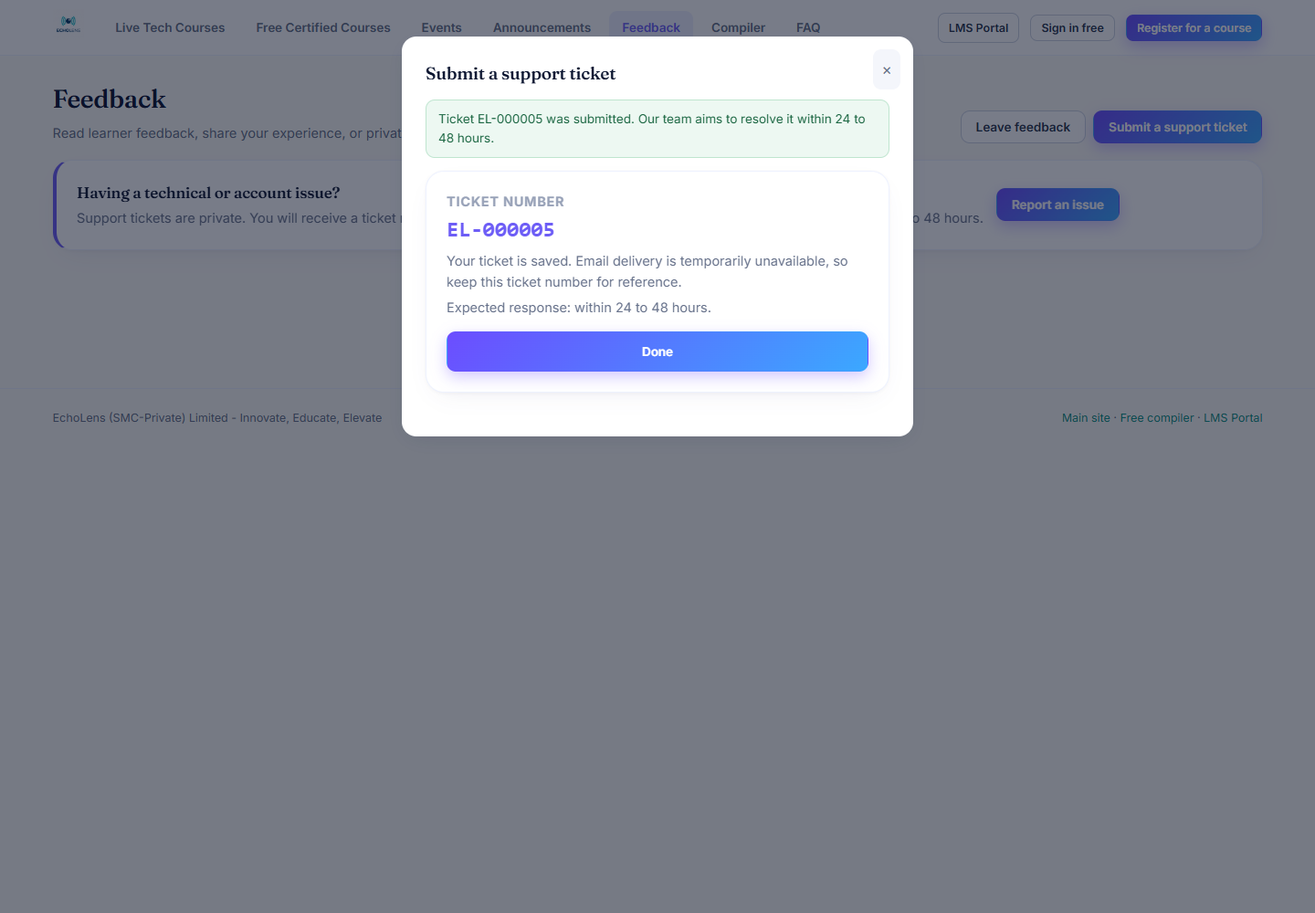
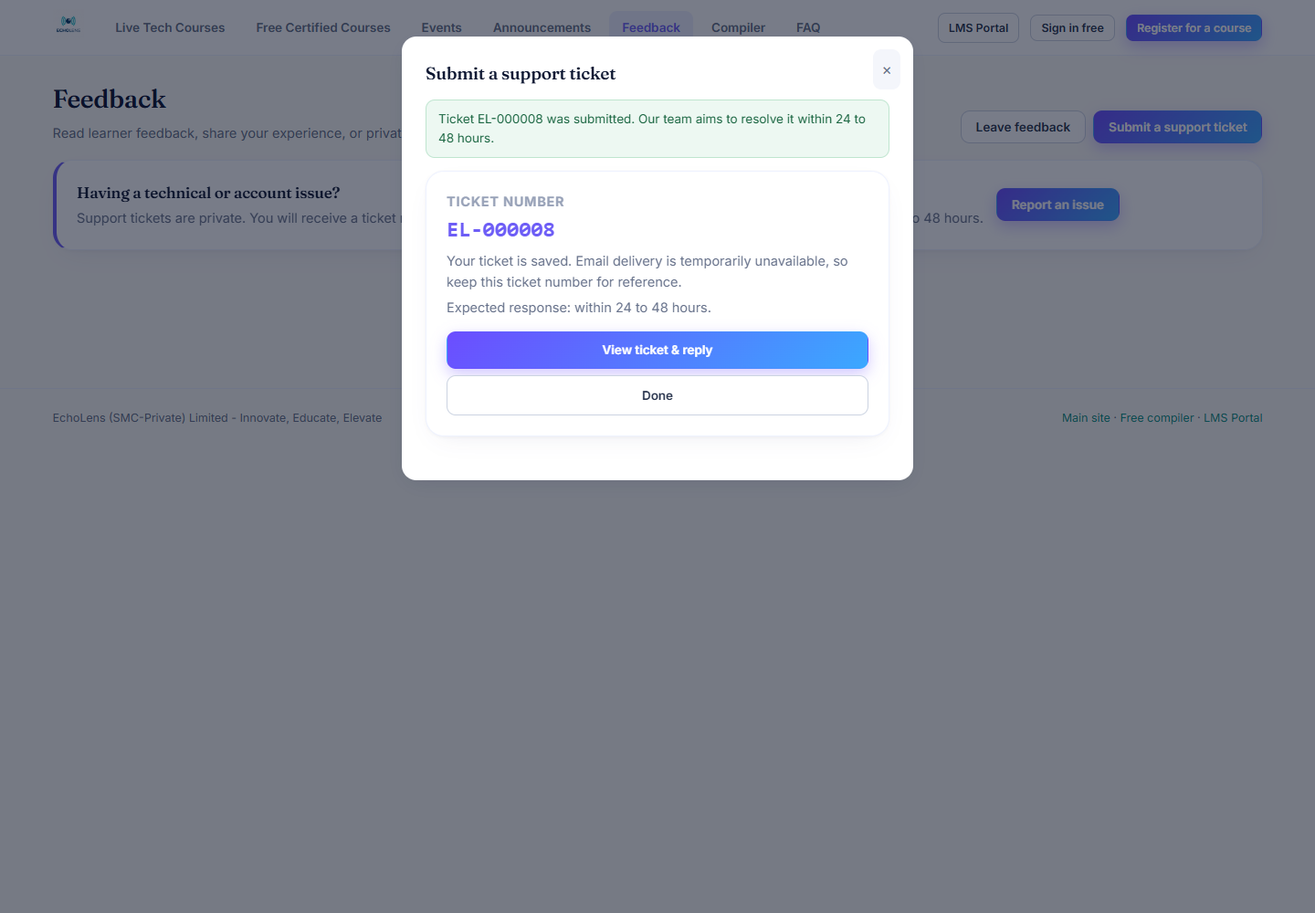
Add two-way support ticket replies and enrollment alerts

Changed region(s): [[0.2812, 0.465, 0.7188, 0.527], [0.3438, 0.372, 0.6562, 0.434], [0.5625, 0.124, 0.6562, 0.155]]

diff --git a/server.js b/server.js
@@ -362,6 +362,7 @@ const limitSignup = rateLimit('signup', { max: 10, windowMs: 60 * 60 * 1000, mes
 const limitLead = rateLimit('lead', { max: 20, windowMs: 60 * 60 * 1000, message: 'Too many submissions from this network. Please try again later.' });
 const limitFeedback = rateLimit('feedback', { max: 10, windowMs: 60 * 60 * 1000, message: 'Too many submissions from this network. Please try again later.' });
 const limitSupportTicket = rateLimit('support-ticket', { max: 5, windowMs: 60 * 60 * 1000, message: 'Too many support tickets were submitted from this network. Please wait before trying again.' });
+const limitSupportReply = rateLimit('support-reply', { max: 20, windowMs: 60 * 60 * 1000, message: 'Too many ticket replies were submitted from this network. Please wait before trying again.' });
 
 // Drop expired entries from every throttle map every 10 minutes.
 setInterval(() => {
@@ -3828,8 +3829,39 @@ app.delete('/api/admin/feedback/:id', authRequired, adminRequired, (req, res) =>
 });
 
 /* Private support tickets live beside the feedback workflow in the UI, but
- * are never returned by the public feedback wall. A valid email is required
- * because both receipt and resolution are communicated to the submitter. */
+ * are never returned by the public feedback wall. Signed-in owners can read
+ * their tickets directly; emailed links carry a short-lived signed token so
+ * anonymous reporters can safely continue the same conversation in-portal. */
+function supportTicketView(ticket) {
+  return {
+    id: ticket.id, ticket_no: ticket.ticket_no, subject: ticket.subject, message: ticket.message,
+    category: ticket.category, context: ticket.context, status: ticket.status, created_at: ticket.created_at,
+    expected_by: ticket.expected_by, updated_at: ticket.updated_at || ticket.created_at,
+    messages: Array.isArray(ticket.messages) ? ticket.messages.map((m) => ({ id: m.id, author: m.author, name: m.name, message: m.message, created_at: m.created_at })) : [],
+    resolution: ticket.resolution, resolved_at: ticket.resolved_at,
+  };
+}
+function supportTicketToken(ticket) {
+  return jwt.sign({ purpose: 'support-ticket', ticket_id: ticket.id, email: ticket.email }, JWT_SECRET, { expiresIn: '30d' });
+}
+function supportTicketLink(ticket) {
+  return `${APP_URL}/open#ticket=${ticket.ticket_no}&token=${encodeURIComponent(supportTicketToken(ticket))}`;
+}
+function supportTicketFromRequest(req) {
+  const id = String(req.params.id || '');
+  const ticket = /^EL-\d{6}$/.test(id) ? SupportTickets.byId(Number(id.slice(3))) : SupportTickets.byId(id);
+  if (!ticket) return null;
+  const account = currentUser(req);
+  if (account && (ticket.user_id === account.id || ticket.email === String(account.email || '').toLowerCase())) return ticket;
+  try {
+    const payload = jwt.verify(String(req.query.token || (req.body || {}).token || ''), JWT_SECRET);
+    if (payload.purpose === 'support-ticket' && payload.ticket_id === ticket.id && payload.email === ticket.email) return ticket;
+  } catch {}
+  return null;
+}
+function supportAdminEmails() {
+  return [...new Set([ADMISSIONS_EMAIL, ...store.allData().users.filter((u) => u.role === 'admin' && u.email).map((u) => u.email)].map((email) => String(email || '').trim().toLowerCase()).filter(Boolean))];
+}
 app.post('/api/public/support-tickets', limitSupportTicket, asyncRoute(async (req, res) => {
   const b = req.body || {};
   if (b.company) return res.status(201).json({ ok: true }); // honeypot
@@ -3848,21 +3880,59 @@ app.post('/api/public/support-tickets', limitSupportTicket, asyncRoute(async (re
   if (message.length < 10 || message.length > 2000) return res.status(400).json({ error: 'Describe the issue in 10 to 2000 characters.' });
   if (context.length > 300) return res.status(400).json({ error: 'Keep the page or feature detail under 300 characters.' });
   const ticket = SupportTickets.create({ user_id: account?.id, name, email, category, subject, message, context, source: account ? 'signed-in-user' : 'open-site' });
+  const replyUrl = supportTicketLink(ticket);
   const delivery = await mailer.notify(email, `Support ticket ${ticket.ticket_no} received`,
-    `${hi(name)},\n\nWe received your support ticket ${ticket.ticket_no}: "${ticket.subject}".\n\nOur team will review it and aims to resolve your problem within 24 to 48 hours. Keep this ticket number for reference.\n\nEchoLens Digital`);
+    `${hi(name)},\n\nWe received your support ticket ${ticket.ticket_no}: "${ticket.subject}".\n\nOur team will review it and aims to resolve your problem within 24 to 48 hours. You can read updates and reply securely inside the portal:\n\n${replyUrl}\n\nKeep this ticket number for reference.\n\nEchoLens Digital`);
   const emailSent = delivery.sent.includes(email);
   SupportTickets.markAcknowledged(ticket.id, emailSent);
   res.status(201).json({
     ok: true,
-    ticket: { ticket_no: ticket.ticket_no, status: ticket.status, created_at: ticket.created_at, expected_by: ticket.expected_by },
+    ticket: { ticket_no: ticket.ticket_no, status: ticket.status, created_at: ticket.created_at, expected_by: ticket.expected_by, reply_url: replyUrl },
     email_sent: emailSent,
     message: `Ticket ${ticket.ticket_no} was submitted. Our team aims to resolve it within 24 to 48 hours.`,
   });
 }));
 
+app.get('/api/support-tickets', authRequired, (req, res) => {
+  res.json({ tickets: SupportTickets.forUser(req.user).map(supportTicketView) });
+});
+app.get('/api/public/support-tickets/:id', (req, res) => {
+  const ticket = supportTicketFromRequest(req);
+  if (!ticket) return res.status(404).json({ error: 'Ticket not found or the secure reply link has expired.' });
+  res.json({ ticket: supportTicketView(ticket) });
+});
+app.post('/api/public/support-tickets/:id/replies', limitSupportReply, asyncRoute(async (req, res) => {
+  const ticket = supportTicketFromRequest(req);
+  if (!ticket) return res.status(404).json({ error: 'Ticket not found or the secure reply link has expired.' });
+  if (ticket.status === 'resolved') return res.status(409).json({ error: 'This ticket is resolved. Submit a new ticket if you still need help.' });
+  const message = String((req.body || {}).message || '').trim();
+  if (message.length < 5 || message.length > 2000) return res.status(400).json({ error: 'Write a reply between 5 and 2000 characters.' });
+  const account = currentUser(req);
+  const updated = SupportTickets.addUserMessage(ticket.id, message, account || { name: ticket.name });
+  await store.pendingPersist();
+  mailer.notify(supportAdminEmails(), `Reply received on support ticket ${ticket.ticket_no}`,
+    `${ticket.name} replied to ${ticket.ticket_no}, "${ticket.subject}":\n\n${message}\n\nOpen the admin ticket queue: ${APP_URL}/dashboard#view=admin-feedback`);
+  res.status(201).json({ ok: true, ticket: supportTicketView(updated) });
+}));
+
 app.get('/api/admin/support-tickets', authRequired, adminRequired, (req, res) => {
   res.json({ tickets: SupportTickets.open() });
 });
+
+app.post('/api/admin/support-tickets/:id/request-info', authRequired, adminRequired, asyncRoute(async (req, res) => {
+  const message = String((req.body || {}).message || '').trim();
+  if (message.length < 5 || message.length > 2000) return res.status(400).json({ error: 'Write a message between 5 and 2000 characters.' });
+  const ticket = SupportTickets.byId(req.params.id);
+  if (!ticket || ticket.status === 'resolved') return res.status(404).json({ error: 'Open support ticket not found.' });
+  const replyUrl = supportTicketLink(ticket);
+  const delivery = await mailer.notify(ticket.email, `More information needed for support ticket ${ticket.ticket_no}`,
+    `${hi(ticket.name)},\n\nEchoLens Support needs more information about ${ticket.ticket_no}, "${ticket.subject}":\n\n${message}\n\nReply securely inside the portal:\n\n${replyUrl}\n\nEchoLens Digital`);
+  const emailSent = delivery.sent.includes(ticket.email);
+  if (mailer.configured && !emailSent) return res.status(503).json({ error: 'The message email could not be delivered. Nothing was added to the ticket, so you can retry.' });
+  const updated = SupportTickets.addAdminMessage(ticket.id, message, req.user.name, emailSent);
+  await store.pendingPersist();
+  res.json({ ok: true, ticket: supportTicketView(updated), email_sent: emailSent });
+}));
 
 app.post('/api/admin/support-tickets/:id/resolve', authRequired, adminRequired, asyncRoute(async (req, res) => {
   const resolution = String((req.body || {}).resolution || '').trim();
@@ -4378,7 +4448,15 @@ app.post('/api/open/enrollments', authRequired, openLearnerRequired, asyncRoute(
   const out = OpenQuest.enroll(req.user.id, String(req.body.track_key || ''));
   if (out.error) return res.status(out.status).json({ error: out.error });
   await store.pendingPersist();
-  res.status(out.existing ? 200 : 201).json({ ok: true, ...out, progress: { ...OpenQuest.progress(req.user.id, out.enrollment.track_key), enrolled: true } });
+  let adminEmailSent = null;
+  if (!out.existing) {
+    const track = Quests.trackDef(out.enrollment.track_key);
+    const recipients = supportAdminEmails();
+    const delivery = await mailer.notify(recipients, `New free course enrollment - ${req.user.name}`,
+      `${req.user.name} enrolled in the free certified course "${track?.title || out.enrollment.track_key}".\n\nEmail: ${req.user.email || 'Not provided'}\nAccount role: ${req.user.role}\nRegistration number: ${req.user.reg_no || 'Not assigned'}\nCourse code: ${track?.course_code || 'Free course'}\nEnrolled at: ${out.enrollment.enrolled_at}\n\nView learner activity in the admin portal: ${APP_URL}/dashboard#view=admin-students`);
+    adminEmailSent = delivery.sent.length > 0;
+  }
+  res.status(out.existing ? 200 : 201).json({ ok: true, ...out, admin_email_sent: adminEmailSent, progress: { ...OpenQuest.progress(req.user.id, out.enrollment.track_key), enrolled: true } });
 }));
 app.get('/api/open/attempts', authRequired, openLearnerRequired, (req,res)=>res.json({attempts:store.OpenAttempts.list(req.user.id,String(req.query.track||''),req.query.level,req.query.pid).map(learnerAttempt)}));
 app.post('/api/open/attempts/:id/retry',authRequired,openLearnerRequired,asyncRoute(async (req,res)=>{

diff --git a/public/js/open.js b/public/js/open.js
@@ -138,11 +138,17 @@ function navCourses(mode, skipPush) {
 // itself calling the same functions that normally push.
 let RESTORING_NAV = false;
 function openRoute(state) {
+  if (state.v === 'ticket') return '#ticket=' + encodeURIComponent(state.ticket) + '&token=' + encodeURIComponent(state.token || '');
   if (state.v === 'courses') return state.mode === 'free' ? '#free' : '#courses';
   if (['course','video','solve'].includes(state.v)) return '#course/' + encodeURIComponent(state.key) + (state.v !== 'course' ? '/lesson/' + state.level : '') + (state.v === 'solve' ? '/practice/' + state.pid : '');
   return '#' + state.v;
 }
 function openState() {
+  if (location.hash.startsWith('#ticket=')) {
+    const params = new URLSearchParams(location.hash.slice(1));
+    const ticket = params.get('ticket'), token = params.get('token');
+    if (ticket && token) return { v: 'ticket', ticket, token };
+  }
   const parts = location.hash.slice(1).split('/');
   if (parts[0] === 'course' && parts[1]) { let key; try { key = decodeURIComponent(parts[1]); } catch { return null; } return {v: parts[4] === 'practice' ? 'solve' : parts[2] === 'lesson' ? 'video' : 'course', key, level:Number(parts[3]), pid:Number(parts[5])}; }
   if (['courses','free'].includes(parts[0])) return {v:'courses',mode:parts[0] === 'free' ? 'free' : 'live'};
@@ -157,6 +163,7 @@ async function ensureCourseLoaded(key) {
 }
 async function restoreNav(state) {
   if (!state || !state.v) return;
+  if (state.v === 'ticket') { openTab('feedback'); await openSupportTicket(state.ticket, state.token); return; }
   if (['events','announcements','feedback'].includes(state.v)) { openTab(state.v); return; }
   if (state.v === 'profile') { openProfileTab(); return; }
   if (state.v === 'courses') { navCourses(state.mode || COURSE_NAV_MODE, true);if(state.filters){$('cSearch').value=state.filters.search||'';$('cTier').value=state.filters.tier||'';$('cFree').value=state.filters.free||'';FREE_SELECTED_FAMILY=state.filters.family||null;drawCourses();}return; }
@@ -481,6 +488,7 @@ async function loadFeedbackTeaser() {
 }
 async function loadFeedback() {
   const box = $('feedbackList');
+  loadMySupportTickets();
   try {
     const d = await api('/api/public/feedback');
     box.innerHTML = d.feedback.length ? d.feedback.map((f) => `
@@ -515,6 +523,50 @@ function openFeedbackForm() {
       setTimeout(closeModal, 1600);
     } catch (err) { modalMsg(err.message); btn.disabled = false; }
   });
+}
+
+const supportStatusLabel = (status) => ({ open: 'Support reviewing', waiting_on_user: 'Waiting for your reply', resolved: 'Resolved' }[status] || status);
+async function loadMySupportTickets() {
+  const box = $('mySupportTickets');
+  if (!box) return;
+  if (!ME) { box.innerHTML = ''; return; }
+  try {
+    const data = await api('/api/support-tickets');
+    const tickets = data.tickets || [];
+    box.innerHTML = tickets.length ? `<div class="card" style="margin-bottom:18px"><div class="card-head"><h3>My support tickets</h3><span class="s" style="color:var(--muted)">Open a ticket to read updates or reply.</span></div><div class="card-body tight">${tickets.map((ticket) => `
+      <button class="list-row" style="width:100%;text-align:left;background:transparent;border:0;border-bottom:1px solid var(--line);cursor:pointer" onclick="openSupportTicket('${esc(ticket.ticket_no)}')">
+        <div class="grow"><div class="t">${esc(ticket.ticket_no)} &middot; ${esc(ticket.subject)}</div><div class="s" style="color:var(--muted)">${esc(supportStatusLabel(ticket.status))} &middot; Updated ${esc((ticket.updated_at || '').slice(0, 16).replace('T', ' '))}</div></div><span aria-hidden="true">&rarr;</span>
+      </button>`).join('')}</div></div>` : '';
+  } catch { box.innerHTML = ''; }
+}
+function supportThreadHtml(ticket) {
+  const messages = (ticket.messages || []).map((item) => `<div style="margin:9px 0;padding:10px 12px;border-radius:10px;background:${item.author === 'admin' ? 'var(--violet-soft)' : 'var(--surface-2)'}">
+    <div class="s" style="font-weight:700;color:var(--ink)">${item.author === 'admin' ? 'EchoLens Support' : 'You'}</div>
+    <div class="s" style="white-space:pre-line;color:var(--muted);margin-top:3px">${esc(item.message)}</div>
+    <div class="s" style="color:var(--muted-2);margin-top:4px">${esc((item.created_at || '').slice(0, 16).replace('T', ' '))}</div>
+  </div>`).join('');
+  return `<div class="s" style="color:var(--muted-2);margin-bottom:5px">${esc(ticket.ticket_no)} &middot; ${esc(supportStatusLabel(ticket.status))}</div>
+    <h3 style="margin-bottom:8px">${esc(ticket.subject)}</h3>
+    <div style="padding:10px 12px;border:1px solid var(--line);border-radius:10px"><div class="s" style="font-weight:700">Your original issue</div><div class="s" style="white-space:pre-line;color:var(--muted);margin-top:3px">${esc(ticket.message)}</div></div>
+    ${messages || '<p class="s" style="color:var(--muted);margin:12px 0">Support has not added an update yet.</p>'}
+    ${ticket.resolution ? `<div style="padding:11px 13px;border-radius:10px;background:var(--teal-soft);margin-top:10px"><strong>Resolution</strong><div class="s" style="white-space:pre-line;margin-top:4px">${esc(ticket.resolution)}</div></div>` : ''}`;
+}
+async function openSupportTicket(ticketNo, token = '') {
+  try {
+    const suffix = token ? `?token=${encodeURIComponent(token)}` : '';
+    const data = await api(`/api/public/support-tickets/${encodeURIComponent(ticketNo)}${suffix}`);
+    const ticket = data.ticket;
+    openModal(`Support ticket ${ticket.ticket_no}`, `${supportThreadHtml(ticket)}
+      ${ticket.status !== 'resolved' ? `<form id="supportReplyForm" style="margin-top:14px"><label class="field"><span>Your reply</span><textarea name="message" rows="4" minlength="5" maxlength="2000" required placeholder="Add the information our support team needs"></textarea></label><button class="btn btn-primary btn-block">Send reply</button></form>` : '<button class="btn btn-primary btn-block" style="margin-top:14px" onclick="closeModal()">Done</button>'}`);
+    const form = $('supportReplyForm');
+    if (form) form.addEventListener('submit', async (event) => {
+      event.preventDefault(); const button = form.querySelector('button'); button.disabled = true; button.textContent = 'Sending...';
+      try {
+        const updated = await api(`/api/public/support-tickets/${encodeURIComponent(ticket.ticket_no)}/replies${suffix}`, { method: 'POST', body: JSON.stringify({ message: form.message.value.trim(), token }) });
+        $('modalBody').innerHTML = `${supportThreadHtml(updated.ticket)}<div class="form-msg ok" role="status" style="display:block">Your reply was sent to EchoLens Support.</div><button class="btn btn-primary btn-block" style="margin-top:14px" onclick="closeModal();loadMySupportTickets()">Done</button>`;
+      } catch (error) { modalMsg(error.message); button.disabled = false; button.textContent = 'Send reply'; }
+    });
+  } catch (error) { openModal('Support ticket', `<div class="form-msg err" style="display:block">${esc(error.message)}</div><button class="btn btn-ghost btn-block" style="margin-top:12px" onclick="closeModal()">Close</button>`); }
 }
 
 function openSupportTicketForm() {
@@ -552,7 +604,8 @@ function openSupportTicketForm() {
         <div style="font:700 24px var(--font-mono);color:var(--primary);margin:5px 0 10px">${esc(data.ticket.ticket_no)}</div>
         <p class="s" style="color:var(--muted)">${data.email_sent ? 'A confirmation email was sent to your inbox.' : 'Your ticket is saved. Email delivery is temporarily unavailable, so keep this ticket number for reference.'}</p>
         <p class="s" style="color:var(--muted);margin-top:6px">Expected response: within 24 to 48 hours.</p>
-        <button class="btn btn-primary btn-block" style="margin-top:14px" onclick="closeModal()">Done</button>
+        <a class="btn btn-primary btn-block" style="margin-top:14px" href="${esc(data.ticket.reply_url)}">View ticket &amp; reply</a>
+        <button class="btn btn-ghost btn-block" style="margin-top:7px" onclick="closeModal();loadMySupportTickets()">Done</button>
       </div></div>`;
     } catch (error) {
       modalMsg(error.message); button.disabled = false; button.textContent = 'Submit ticket';

diff --git a/public/js/dashboard.js b/public/js/dashboard.js
@@ -1022,10 +1022,15 @@ async function renderAdminFeedback() {
   const ticketRow = (ticket) => `
     <div class="list-row" style="align-items:start;flex-wrap:wrap">
       <div class="grow">
-        <div class="t"><span class="role-pill">${esc(ticket.ticket_no)}</span> ${esc(ticket.subject)} <span class="s" style="color:var(--muted-2)">&middot; ${esc((ticket.created_at || '').slice(0, 16).replace('T', ' '))}</span></div>
+        <div class="t"><span class="role-pill">${esc(ticket.ticket_no)}</span> ${esc(ticket.subject)} <span class="s" style="color:var(--muted-2)">&middot; ${ticket.status === 'waiting_on_user' ? 'Waiting for user' : 'Needs support review'} &middot; ${esc((ticket.created_at || '').slice(0, 16).replace('T', ' '))}</span></div>
         <div class="s" style="color:var(--muted);white-space:pre-line;margin-top:5px">${esc(ticket.message)}</div>
         <div class="s" style="color:var(--muted-2);margin-top:5px">${esc(ticket.category)} &middot; ${esc(ticket.name)} &middot; ${esc(ticket.email)}${ticket.context ? ' &middot; ' + esc(ticket.context) : ''}</div>
         <div class="s" style="color:var(--muted-2)">Confirmation email: ${ticket.acknowledgement_email_sent ? 'sent' : 'not delivered'} &middot; Resolve target: ${esc((ticket.expected_by || '').slice(0, 16).replace('T', ' '))}</div>
+        ${(ticket.messages || []).map((item) => `<div style="margin-top:8px;padding:8px 10px;border-radius:8px;background:${item.author === 'admin' ? 'var(--violet-soft)' : 'var(--teal-soft)'}"><div class="s"><strong>${item.author === 'admin' ? 'Support' : esc(ticket.name)}</strong> &middot; ${esc((item.created_at || '').slice(0, 16).replace('T', ' '))}</div><div class="s" style="white-space:pre-line;color:var(--muted);margin-top:3px">${esc(item.message)}</div></div>`).join('')}
+        <form onsubmit="return adminRequestTicketInfo(event, ${ticket.id})" style="display:flex;gap:6px;margin-top:9px;max-width:820px;align-items:start;flex-wrap:wrap">
+          <textarea name="message" rows="2" minlength="5" maxlength="2000" required placeholder="Ask the user for the information you still need. They will receive this by email and reply in the portal." style="flex:1;min-width:260px;padding:9px 11px;border:1.5px solid var(--line);border-radius:9px;font:13px var(--font-body);resize:vertical"></textarea>
+          <button class="btn btn-ghost btn-sm">Request information</button>
+        </form>
         <form onsubmit="return adminResolveSupportTicket(event, ${ticket.id})" style="display:flex;gap:6px;margin-top:9px;max-width:720px;align-items:start">
           <textarea name="resolution" rows="2" minlength="5" maxlength="2000" required placeholder="Explain how the issue was resolved. This message will be emailed to the user." style="flex:1;min-width:220px;padding:9px 11px;border:1.5px solid var(--line);border-radius:9px;font:13px var(--font-body);resize:vertical"></textarea>
           <button class="btn btn-primary btn-sm">Resolve &amp; email</button>
@@ -1073,6 +1078,19 @@ async function adminResolveSupportTicket(event, id) {
     renderAdminFeedback();
   } catch (error) {
     toast(error.message, true); button.disabled = false; button.textContent = 'Resolve & email';
+  }
+  return false;
+}
+async function adminRequestTicketInfo(event, id) {
+  event.preventDefault();
+  const form = event.target, button = form.querySelector('button'), message = form.message.value.trim();
+  button.disabled = true; button.textContent = 'Sending...';
+  try {
+    const data = await api(`/api/admin/support-tickets/${id}/request-info`, { method: 'POST', body: JSON.stringify({ message }) });
+    toast(data.email_sent ? `Message sent for ${data.ticket.ticket_no}.` : `Message saved for ${data.ticket.ticket_no}. Email service is unavailable.`);
+    renderAdminFeedback();
+  } catch (error) {
+    toast(error.message, true); button.disabled = false; button.textContent = 'Request information';
   }
   return false;
 }

diff --git a/store.js b/store.js
@@ -3927,11 +3927,19 @@ const SupportTickets = {
       resolved_by: null,
       resolution_email_sent: false,
       resolution_email_at: null,
+      messages: [],
+      updated_at: now(),
     };
     data.feedback.push(ticket); save();
     return ticket;
   },
-  open() { return data.feedback.filter((f) => f.type === 'ticket' && f.status === 'open').sort((a, b) => b.id - a.id); },
+  open() { return data.feedback.filter((f) => f.type === 'ticket' && f.status !== 'resolved').sort((a, b) => new Date(b.updated_at || b.created_at) - new Date(a.updated_at || a.created_at)); },
+  forUser(user) {
+    if (!user) return [];
+    const email = String(user.email || '').trim().toLowerCase();
+    return data.feedback.filter((f) => f.type === 'ticket' && (f.user_id === Number(user.id) || (!!email && f.email === email)))
+      .sort((a, b) => new Date(b.updated_at || b.created_at) - new Date(a.updated_at || a.created_at));
+  },
   byId(id) { return data.feedback.find((f) => f.id === Number(id) && f.type === 'ticket') || null; },
   markAcknowledged(id, sent) {
     const ticket = SupportTickets.byId(id); if (!ticket) return null;
@@ -3939,15 +3947,47 @@ const SupportTickets = {
     ticket.acknowledgement_email_at = sent ? now() : null;
     save(); return ticket;
   },
+  addAdminMessage(id, message, byName, emailSent) {
+    const ticket = SupportTickets.byId(id);
+    if (!ticket || ticket.status === 'resolved') return null;
+    ticket.messages = Array.isArray(ticket.messages) ? ticket.messages : [];
+    ticket.messages.push({
+      id: ticket.messages.length + 1,
+      author: 'admin',
+      name: String(byName || 'EchoLens Support').slice(0, 80),
+      message: String(message || '').trim().slice(0, 2000),
+      created_at: now(),
+      email_sent: !!emailSent,
+    });
+    ticket.status = 'waiting_on_user';
+    ticket.updated_at = now();
+    save(); return ticket;
+  },
+  addUserMessage(id, message, user) {
+    const ticket = SupportTickets.byId(id);
+    if (!ticket || ticket.status === 'resolved') return null;
+    ticket.messages = Array.isArray(ticket.messages) ? ticket.messages : [];
+    ticket.messages.push({
+      id: ticket.messages.length + 1,
+      author: 'user',
+      name: String(user?.name || ticket.name || 'User').slice(0, 80),
+      message: String(message || '').trim().slice(0, 2000),
+      created_at: now(),
+    });
+    ticket.status = 'open';
+    ticket.updated_at = now();
+    save(); return ticket;
+  },
   resolve(id, resolution, byName, emailSent) {
     const ticket = SupportTickets.byId(id);
-    if (!ticket || ticket.status !== 'open') return null;
+    if (!ticket || ticket.status === 'resolved') return null;
     ticket.status = 'resolved';
     ticket.resolution = String(resolution || '').trim().slice(0, 2000);
     ticket.resolved_at = now();
     ticket.resolved_by = byName || null;
     ticket.resolution_email_sent = !!emailSent;
     ticket.resolution_email_at = emailSent ? now() : null;
+    ticket.updated_at = now();
     save(); return ticket;
   },
 };

diff --git a/test/support-tickets.test.js b/test/support-tickets.test.js
@@ -34,11 +34,21 @@ test('support tickets stay private and leave the admin queue after resolution', 
 
   SupportTickets.markAcknowledged(ticket.id, true);
   assert.equal(SupportTickets.byId(ticket.id).acknowledgement_email_sent, true);
+  const waiting = SupportTickets.addAdminMessage(ticket.id, 'Which browser and version are you using?', 'Admin User', true);
+  assert.equal(waiting.status, 'waiting_on_user');
+  assert.equal(waiting.messages[0].author, 'admin');
+  assert.equal(SupportTickets.open().length, 1);
+  const replied = SupportTickets.addUserMessage(ticket.id, 'Chrome 140 on Windows 11.', { name: 'Learner' });
+  assert.equal(replied.status, 'open');
+  assert.equal(replied.messages[1].author, 'user');
+  assert.equal(SupportTickets.forUser({ id: 42, email: 'learner@example.com' })[0].id, ticket.id);
+  assert.equal(SupportTickets.forUser({ id: 77, email: 'other@example.com' }).length, 0);
   const resolved = SupportTickets.resolve(ticket.id, 'The compiler theme contrast was corrected.', 'Admin User', true);
   assert.equal(resolved.status, 'resolved');
   assert.equal(resolved.resolution_email_sent, true);
   assert.equal(SupportTickets.open().length, 0);
   assert.equal(SupportTickets.byId(ticket.id).resolution, 'The compiler theme contrast was corrected.');
+  assert.equal(SupportTickets.addUserMessage(ticket.id, 'One more reply', { name: 'Learner' }), null);
 });
 
 test('legacy feedback entries without a type remain public-feedback records', () => {

diff --git a/public/open.html b/public/open.html
@@ -173,6 +173,7 @@
       <div class="grow"><h3 style="margin-bottom:4px">Having a technical or account issue?</h3><p class="s" style="color:var(--muted)">Support tickets are private. You will receive a ticket number and email confirmation, and our team aims to resolve the issue within 24 to 48 hours.</p></div>
       <button class="btn btn-primary" onclick="openSupportTicketForm()">Report an issue</button>
     </div></div>
+    <div id="mySupportTickets"></div>
     <div id="feedbackList"><div class="empty">Loading feedback&hellip;</div></div>
   </section>
 
@@ -196,6 +197,6 @@
 <script src="/js/draft-store.js?v1"></script>
 <script src="/js/workflow-ui.js?v2"></script>
 <script src="/js/coderunner.js?v1421"></script>
-<script src="/js/open.js?v1432"></script>
+<script src="/js/open.js?v1433"></script>
 </body>
 </html>

diff --git a/public/dashboard.html b/public/dashboard.html
@@ -192,7 +192,7 @@
 <script src="/js/workflow-ui.js?v2"></script>
 <script src="/js/coderunner.js?v1421"></script>
 <script src="/js/showcase-composer.js?v1"></script>
-<script src="/js/dashboard.js?v1263"></script>
+<script src="/js/dashboard.js?v1264"></script>
 <script src="https://cdnjs.cloudflare.com/ajax/libs/three.js/r128/three.min.js"></script>
 <script src="/js/gem3d.js?v1234"></script>
 <script src="/js/tilt.js?v1234"></script>
